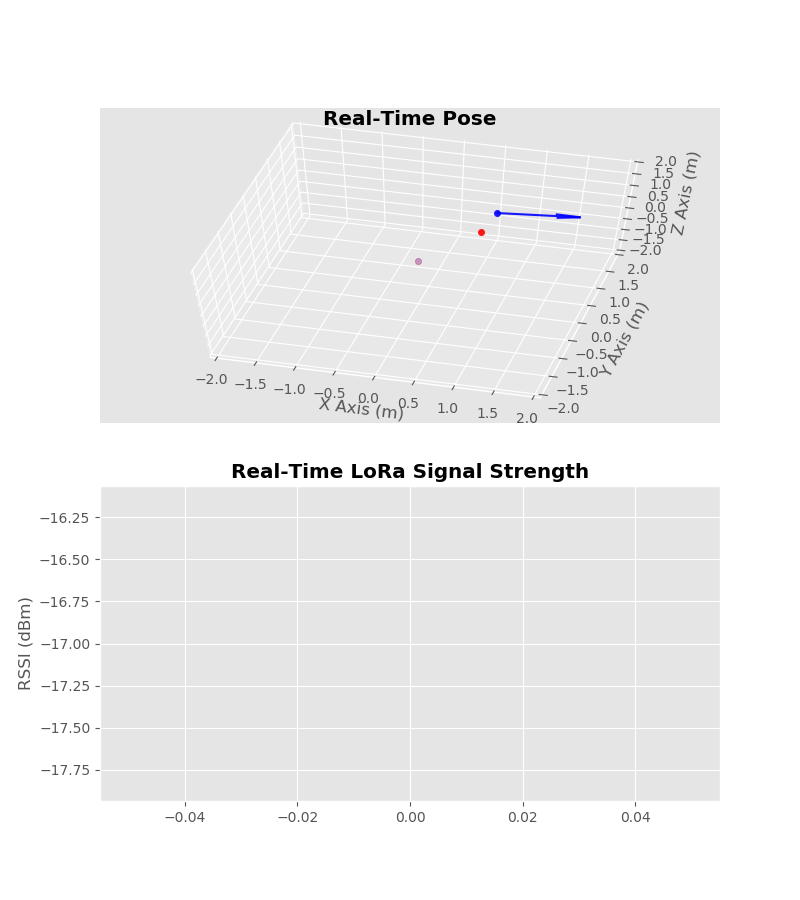
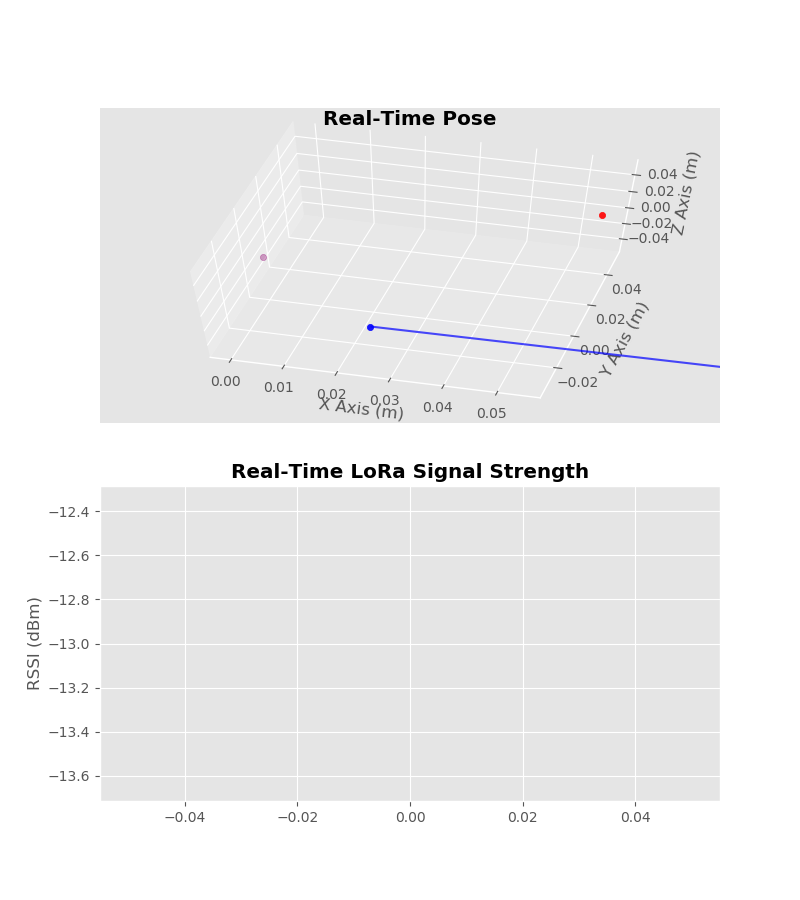
Corrected EKF

diff --git a/EKF.py b/EKF.py
@@ -18,25 +18,23 @@ from sympy import Matrix, symbols
 
 
 # LoRa RX1 Coordinates
-R1 = np.array([200., 200., 0])
+R1 = np.array([1., 1., 0])
 
 
 def HJacobian_at(x):
     """ compute Jacobian of H matrix for state x """
-
+    dt = .1
     X = x[0, 0]
     Y = x[1, 0]
-    Z = x[2, 0]
-    denom = (X - R1[0])**2 + (Y - R1[1])**2 + (Z - R1[2])**2
-    a = 28.57*math.log10(math.e)
-    # HJabobian in (7, ?) if ONE LoRa RX; (9, ?) if THREE LoRa RXs available
-    Jacob = array([[1, 0, 0, 0, 0, 0, 0, 0, 0],
-                                     [0, 1, 0, 0, 0, 0, 0, 0, 0],
-                                     [0, 0, 1, 0, 0, 0, 0, 0, 0],
-                                     [0, 0, 0, 1, 0, 0, 0, 0, 0],
-                                     [0, 0, 0, 0, 1, 0, 0, 0, 0],
-                                     [0, 0, 0, 0, 0, 1, 0, 0, 0],
-                                     [a*(X - R1[0])/denom, a*(Y - R1[1])/denom, a*(Z - R1[2])/denom, 0, 0, 0, 0, 0, 0]])
+    #Z = x[2, 0]
+    theta = x[2, 0]
+    V = x[3, 0]
+    denom = (X - R1[0])**2 + (Y - R1[1])**2
+    a = -28.57*math.log10(math.e)
+    # HJabobian in (3, 4) if ONE LoRa RX; (5, 4) if THREE LoRa RXs available
+    Jacob = array([[0, 0, -dt * V * math.sin(theta), dt * math.cos(theta)],
+                                     [0, 0, dt * V * math.cos(theta), dt * math.sin(theta)],
+                                     [a*(X - R1[0])/denom, a*(Y - R1[1])/denom, 0, 0]])
     #return array ([[(X - R1[0])/denom, (Y - R1[1])/denom, (Z - R1[2])/denom, 0, 0, 0, 0, 0, 0]]) * 28.57*math.log10(math.e)
     
     #print("HJacobian return: ", Jacob.shape)
@@ -44,13 +42,16 @@ def HJacobian_at(x):
 
 
 def hx(x):
-    """ compute measurement for (Pose + RSSI) that would correspond to state x.
+    """ compute measurement of (X, Y, RSSI) that would correspond to state x.
     """
-    # PL Regression Model
-    rssi = 22 - (28.57*math.log10(np.linalg.norm(x[:3] - R1)) + 27.06)
+    dt = .1
+    trans_x = dt * x[3, 0] * math.cos(x[2, 0])
+    trans_y = dt * x[3, 0] * math.sin(x[2, 0])
+    # RSSI Regression Model
+    rssi = -28.57*math.log10(np.linalg.norm(x[:2] - R1[:2])) - 5.06
 
-    # Measurement comprises 6DoF Pose + RSSIs
-    h = array([x[0, 0], x[1, 0], x[2, 0], x[3, 0], x[4, 0], x[5, 0], rssi]).reshape((-1, 1))
+    # Measurement comprises (X, Y, RSSIs)
+    h = array([trans_x, trans_y, rssi]).reshape((-1, 1))
     #print("hx return shape: ", h.shape)
     return h
 
@@ -73,40 +74,44 @@ class PoseVel(object):
         """
         
         # add some process noise to the system
-        self.vel = self.vel + .3 * (randn() + 1.)
-        self.rot = self.rot + 10. * (randn(3, 1) - 25.5)
-        self.pos = self.pos + self.vel * self.dt
+        self.vel = self.vel + (1. * randn() + 0.)
+        self.rot = self.rot + (.1 * randn(3, 1) + 0.)
+        self.pos = self.pos + array([self.vel * self.dt * math.cos(self.rot[2, 0]), self.vel * self.dt * math.sin(self.rot[2, 0]), 0])
 
         # Constrain Path to 2D
-        self.vel[2, 0] = 0.
+        #self.vel[2, 0] = 0.
         self.rot[0, 0], self.rot[1, 0] = 0., 0.
         self.pos[2, 0] = 0.
 
-        # Add measurement noise of 15%
-        z_pos = self.pos * (1 + 0.15 * randn(3, 1))
-        z_rot = self.rot * (1 + 0.15 * randn(3, 1))
+        # Add measurement noise of 5%
+        z_pos = self.pos * (1 + 0.05 * randn(3, 1))
+        z_rot = self.rot * (1 + 0.05 * randn(3, 1))
 
         # Simulate a decreasing/increasing RSSI
         #rssi = 22 - (28.57*math.log10(np.linalg.norm(self.pos - R1)) + 27.06)
-        rssi = -100 + .8*self.t_idx - 10*np.random.rand()
+        rssi = -80 + .6*self.t_idx - 10*np.random.rand()
         self.t_idx += 1
         #print("Measured RSSI: ", rssi)
 
         # Generate Observation
-        z0 = array([[z_pos[0, 0]], [z_pos[1, 0]], [z_pos[2, 0]], [z_rot[0, 0]], [z_rot[1, 0]], [z_rot[2, 0]], [rssi]])
+        z0 = array([[z_pos[0, 0]], [z_pos[1, 0]], [rssi]])
         #print("Generate Measurement shape: ", z0.shape)
         return z0
 
 
 
 class EKF_Fusion():
-    def __init__(self, dt=0.1, dim_x=9, dim_z=7, blit=False):
+    def __init__(self, dt=0.1, dim_x=4, dim_z=3, blit=False):
         # Current Pose handler
         self.pred_transform_t_1 = np.array(
         [[1., 0, 0, 0],
         [0, 1., 0, 0],
         [0, 0, 1., 0],
         [0, 0, 0, 1.]])
+        '''
+        z0, y0, x0 = mat2euler(self.pred_transform_t_1[:3, :3])
+        print(euler2quat(z0, y0, x0))
+        '''
         self.out_pred_array = []
         self.final_list = []
         self.sigma_list = []
@@ -140,42 +145,26 @@ class EKF_Fusion():
         self.dt = dt
         self.my_kf = ExtendedKalmanFilter(dim_x=dim_x, dim_z=dim_z)
         # Create synthetic Pose and Velocity
-        self.pv = PoseVel(dt=self.dt, pos=np.zeros(shape=(3, 1)), rot=np.zeros(shape=(3, 1)), vel=np.zeros(shape=(3, 1)))
+        self.pv = PoseVel(dt=self.dt, pos=np.zeros(shape=(3, 1)), rot=np.zeros(shape=(3, 1)), vel=30.)
 
         # make an imperfect starting guess
-        self.my_kf.x = array([0.1, -0.2, 0., 0.01, 0.01, 0.05, -0.15, 0.1, 0.]).reshape(-1, 1)
+        self.my_kf.x = array([0., 0., 0., 0.01]).reshape(-1, 1)
 
         # State Transition Martrix: F
-        self.my_kf.F = eye(9) + array([[0, 0, 0, 0, 0, 0, 1, 0, 0],
-                                  [0, 0, 0, 0, 0, 0, 0, 1, 0],
-                                  [0, 0, 0, 0, 0, 0, 0, 0, 1],
-                                  [0, 0, 0, 0, 0, 0, 0, 0, 0],
-                                  [0, 0, 0, 0, 0, 0, 0, 0, 0],
-                                  [0, 0, 0, 0, 0, 0, 0, 0, 0],
-                                  [0, 0, 0, 0, 0, 0, 0, 0, 0],
-                                  [0, 0, 0, 0, 0, 0, 0, 0, 0],
-                                  [0, 0, 0, 0, 0, 0, 0, 0, 0]]) * self.dt
+        self.my_kf.F = eye(4) + array([[0, 0, 0, 1.],
+                                  [0, 0, .01, 0],
+                                  [0, 0, 0, 0],
+                                  [0, 0, 0, 0]]) * self.dt
 
         # Measurement Noise: R Can be defined Dynamic with MDN-Sigma!
         # my_kf.R = 4.887 # if using 1-dimension Measurement
-        self.my_kf.R = np.array([[.2, 0, 0, 0, 0, 0, 0],
-                            [0, .2, 0, 0, 0, 0, 0],
-                            [0, 0, .2, 0, 0, 0, 0],
-                            [0, 0, 0, .2, 0, 0, 0],
-                            [0, 0, 0, 0, .2, 0, 0],
-                            [0, 0, 0, 0, 0, .2, 0],
-                            [0, 0, 0, 0, 0, 0, 4.887 ** 2]])
+        self.my_kf.R = np.diag(np.array([.1**2, .1**2, 4.887**2]))
 
         # Process Noise: Q
-        self.my_kf.Q = 0.01 * eye(9) + array([[0, 0, 0, 0, 0, 0, 0, 0, 0],
-                                         [0, 0, 0, 0, 0, 0, 0, 0, 0],
-                                         [0, 0, 0, 0, 0, 0, 0, 0, 0],
-                                         [0, 0, 0, 0, 0, 0, 0, 0, 0],
-                                         [0, 0, 0, 0, 0, 0, 0, 0, 0],
-                                         [0, 0, 0, 0, 0, 0, 0, 0, 0],
-                                         [0, 0, 0, 0, 0, 0, 1, 0, 0],
-                                         [0, 0, 0, 0, 0, 0, 0, 1, 0],
-                                         [0, 0, 0, 0, 0, 0, 0, 0, 1]]) * 0.04
+        self.my_kf.Q = array([[0, 0, 0, 0],
+                                         [0, 0, 0, 0],
+                                         [0, 0, .01, 0],
+                                         [0, 0, 0, .1]])
         # Initial Error Covariance: P0
         self.my_kf.P *= 50
 
@@ -183,36 +172,8 @@ class EKF_Fusion():
         self.xs = []
         self.track = []
         self.time = []
-        
-        
-    def rt_run(self, gap):
-        
-        
-        for g in range(gap, 0, -1):
-            start_t = time.time()
-            # Get Measurement
-            final_pose = self.final_list[-g]
-            
-            # Populate ONE Rssi for a 'gap' of Poses
-            final_pose.append(float(self.rssi_list[-1]))
-            
-            z = np.asarray(final_pose, dtype=float).reshape(-1, 1)
-            #print("Measurement:\n", z)
-            # Refresh Measurement noise R
-            for j in range(0, 6):
-                self.my_kf.R[j, j] = self.sigma_list[-g][j]
-                
-            # UPDATE
-            self.my_kf.update(z, HJacobian_at, hx)
-            #print("X-:\n", self.my_kf.x)
-            # Log Posterior State x
-            self.xs.append(self.my_kf.x)
-            
-            # PREDICTION
-            self.my_kf.predict()
-            #print("X+:\n", self.my_kf.x)
-        
-            print("EKF per round takes %.6f s" % (time.time() - start_t))
+        self.path = []
+        self.path_ekf = []
         
         
     def new_measure(self, *args):
@@ -261,6 +222,8 @@ class EKF_Fusion():
         self.V = math.sin(euler_rad[2])*math.cos(euler_rad[1])
         self.W = math.sin(euler_rad[1])
         
+        self.path.append([abs_pred_transform[0, 3], abs_pred_transform[1, 3], 0])
+        
         print("Elapsed time Pose2TrfMtx = ", time.time() - start_t)
         start_t = time.time()
         
@@ -268,9 +231,46 @@ class EKF_Fusion():
         self.rt_run(gap)
         print("Elapsed time of EKF = ", time.time() - start_t)
         
+        print("State X:\n", self.my_kf.x)
         # Trigger EKF
-        self.rt_show()
+        #self.rt_show()
         
+        
+    def rt_run(self, gap):
+        
+        for g in range(gap, 0, -1):
+            start_t = time.time()
+            # Get Measurement
+            final_pose = self.final_list[-g]
+            final_xy = final_pose[:2]
+            
+            # Populate ONE Rssi for a 'gap' of Poses
+            final_xy.append(float(self.rssi_list[-1]))
+            
+            z = np.asarray(final_xy, dtype=float).reshape(-1, 1)
+            #print("Measurement:\n", z)
+            # Refresh Measurement noise R
+            for j in range(0, 2):
+                self.my_kf.R[j, j] = self.sigma_list[-g][j]
+                
+            # Refresh State Transition Martrix: F
+            self.my_kf.F = eye(4) + array([[0, 0, -self.dt * self.my_kf.x[3, 0] * math.sin(self.my_kf.x[2, 0]), self.dt * math.cos(self.my_kf.x[2, 0])],
+                                  [0, 0, self.dt * self.my_kf.x[3, 0] * math.cos(self.my_kf.x[2, 0]), self.dt * math.sin(self.my_kf.x[2, 0])],
+                                  [0, 0, 0, 0],
+                                  [0, 0, 0, 0]]) * self.dt
+            
+            # PREDICTION
+            self.my_kf.predict()
+            
+            # UPDATE
+            self.my_kf.update(z, HJacobian_at, hx)
+            #print("X-:\n", self.my_kf.x)
+            # Log Posterior State x
+            self.xs.append(self.my_kf.x)
+            
+            
+            #print("X+:\n", self.my_kf.x)
+            print("EKF per round takes %.6f s" % (time.time() - start_t))
         
         
     def sim_run(self):
@@ -281,17 +281,23 @@ class EKF_Fusion():
         self.track.append((self.pv.pos, self.pv.rot, self.pv.vel))
         
         # Refresh measurement noise R at runtime
-        for j in range(0, 6):
-            self.my_kf.R[j, j] = 2*np.random.rand()
-            
+        for j in range(0, 3):
+            self.my_kf.R[j, j] = 2.*np.random.rand()
+        
+        # Refresh State Transition Martrix: F
+        self.my_kf.F = eye(4) + array([[0, 0, -self.dt * self.my_kf.x[3, 0] * math.sin(self.my_kf.x[2, 0]), self.dt * math.cos(self.my_kf.x[2, 0])],
+                                  [0, 0, self.dt * self.my_kf.x[3, 0] * math.cos(self.my_kf.x[2, 0]), self.dt * math.sin(self.my_kf.x[2, 0])],
+                                  [0, 0, 0, 0],
+                                  [0, 0, 0, 0]]) * self.dt
+        
+        # PREDICTION
+        self.my_kf.predict()
+        
         # UPDATE
         self.my_kf.update(z, HJacobian_at, hx)
 
         # Log Posterior State x
         self.xs.append(self.my_kf.x)
-
-        # PREDICTION
-        self.my_kf.predict()
         
         print("EKF process time = %.6f s" % (time.time() - start_t))
         
@@ -323,17 +329,17 @@ class EKF_Fusion():
         
     def rt_show(self):
         start_t = time.time()
-    
-        u, v, w = self.odom_quat[0], self.odom_quat[1], self.odom_quat[2]
-    
+        #u, v, w = self.odom_quat[0], self.odom_quat[1], self.odom_quat[2]
+        
         self.handle_scat.set_alpha(.2)
         self.handle_scat_ekf.set_alpha(.2)
         self.handle_arrw.remove()
-        self.handle_arrw_ekf.remove()
-        self.handle_scat = self.ax21.scatter([self.final_list[-1][0]], [self.final_list[-1][1]], [self.final_list[-1][2]], color='b', marker='o', alpha=.9)
-        self.handle_arrw = self.ax21.quiver([self.final_list[-1][0]], [self.final_list[-1][1]], [self.final_list[-1][2]],
+        print(self.path[-1])
+        #self.handle_arrw_ekf.remove()
+        self.handle_scat = self.ax21.scatter([self.path[-1][0]], [self.path[-1][1]], [self.path[-1][2]], color='b', marker='o', alpha=.9)
+        self.handle_arrw = self.ax21.quiver([self.path[-1][0]], [self.path[-1][1]], [self.path[-1][2]],
             self.U, self.V, self.W, color='b', length=1., alpha=.7)
-        self.handle_scat_ekf = self.ax21.scatter([self.my_kf.x[0, 0]], [self.my_kf.x[1, 0]], [self.my_kf.x[2, 0]], color='r', marker='o', alpha=.9)
+        self.handle_scat_ekf = self.ax21.scatter([self.xs[-1][0, 0]], [self.xs[-1][1, 0]], [0.], color='r', marker='o', alpha=.9)
         # Not Attempting to Visual EKF Updated Orientation
         #self.handle_arrw_ekf = self.ax21.quiver([self.my_kf.x[0, 0]], [self.my_kf.x[1, 0]], [self.my_kf.x[2, 0]], self.U_ekf, self.V_ekf, self.W_ekf, color='r', length=1., alpha=.7)
         
@@ -366,22 +372,22 @@ class EKF_Fusion():
         if stop_t > 0.8:
             self.fig2.savefig("live_rx.png")
             self.reset_view()
-            self.set_view([self.final_list[-1][0]], [self.final_list[-1][1]], [self.final_list[-1][2]], self.U, self.V, self.W)
+            self.set_view(self.path[-1][0], self.path[-1][1], self.path[-1][2], self.U, self.V, self.W, self.xs[-1][0, 0], self.xs[-1][1, 0], 0.)
         
-    def set_view(self, x=0, y=0, z=0, u=1, v=0, w=0):
+    def set_view(self, x=0, y=0, z=0, u=1, v=0, w=0, X=0, Y=0, Z=0):
         self.ax21.view_init(elev=60., azim=-75)
         self.ax21.set_title("Real-Time Pose", fontweight='bold')
         self.ax21.set_xlabel('X Axis (m)')
         self.ax21.set_ylabel('Y Axis (m)')
         self.ax21.set_zlabel('Z Axis (m)')
-        
+        '''
         self.ax21.set_xlim(-2, 2)
         self.ax21.set_ylim(-2, 2)
         self.ax21.set_zlim(-2, 2)
-        
+        '''
         self.handle_scat = self.ax21.scatter(x, y, z, color='b', marker='o', alpha=.9)
         self.handle_arrw = self.ax21.quiver(x, y, z, u, v, w, color='b', length=1., alpha=.9)
-        self.handle_scat_ekf = self.ax21.scatter(x, y, z, color='r', marker='o', alpha=.9)
+        self.handle_scat_ekf = self.ax21.scatter(X, Y, Z, color='r', marker='o', alpha=.9)
         
     def reset_view(self):
         self.rssi_list = []

diff --git a/replay.py b/replay.py
@@ -1,0 +1,9 @@
+import sys
+import numpy as np
+
+
+
+# TODO replay the logged LoRa RX messages
+
+
+
